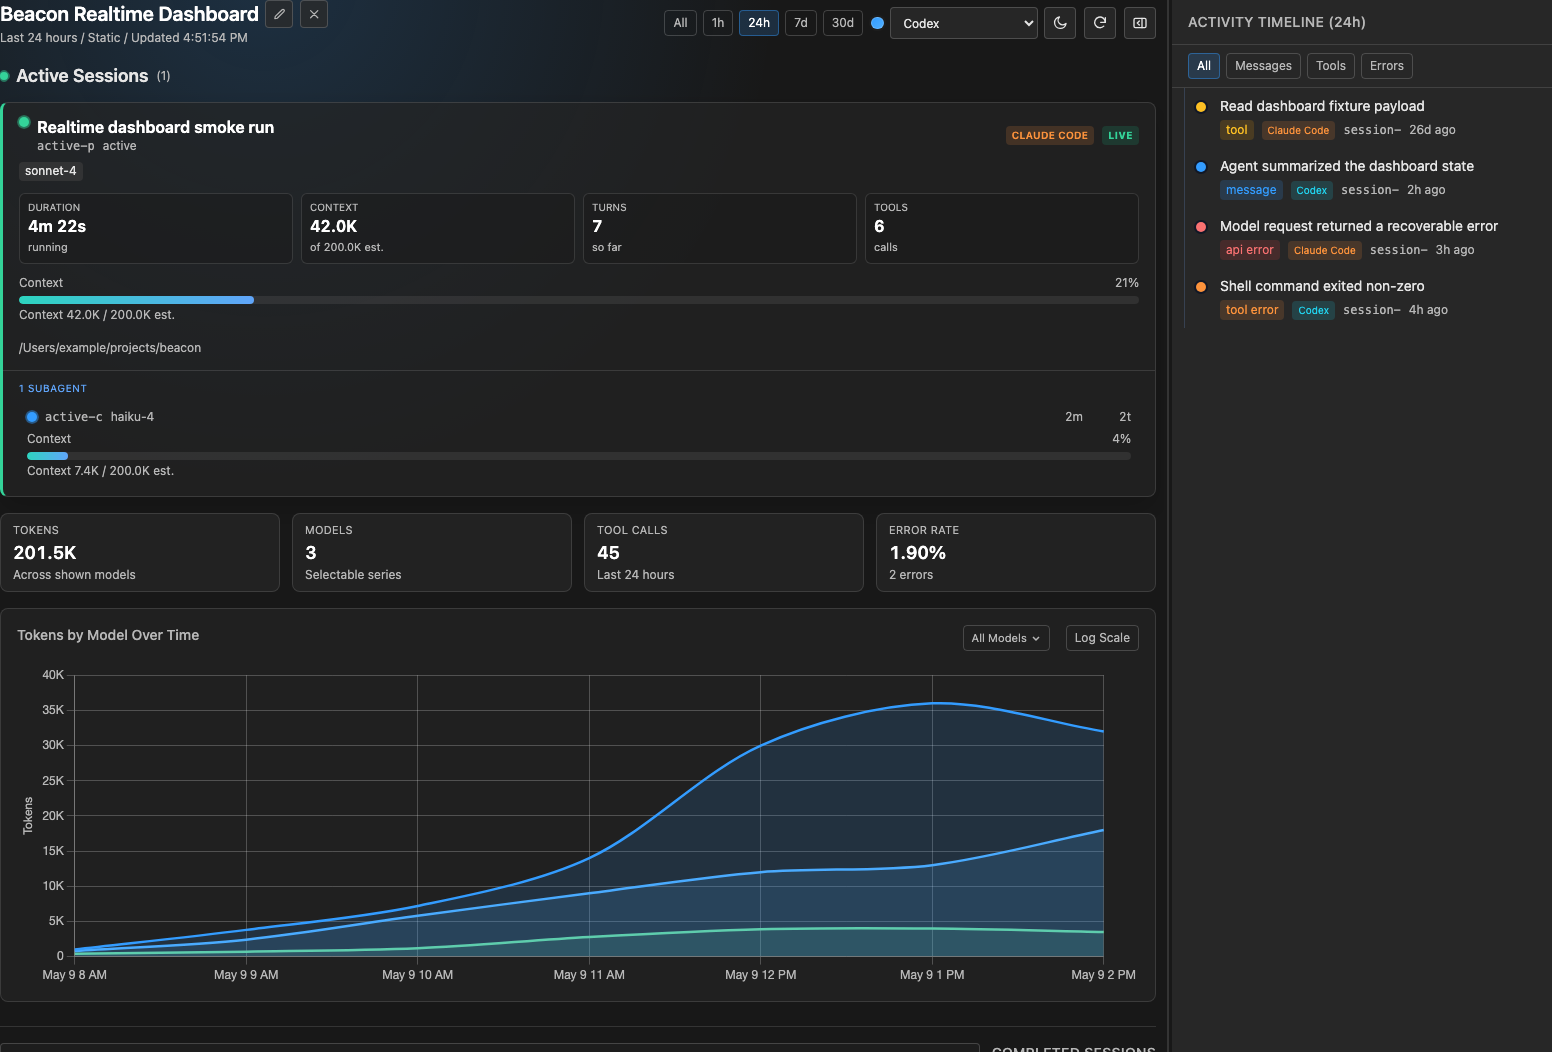
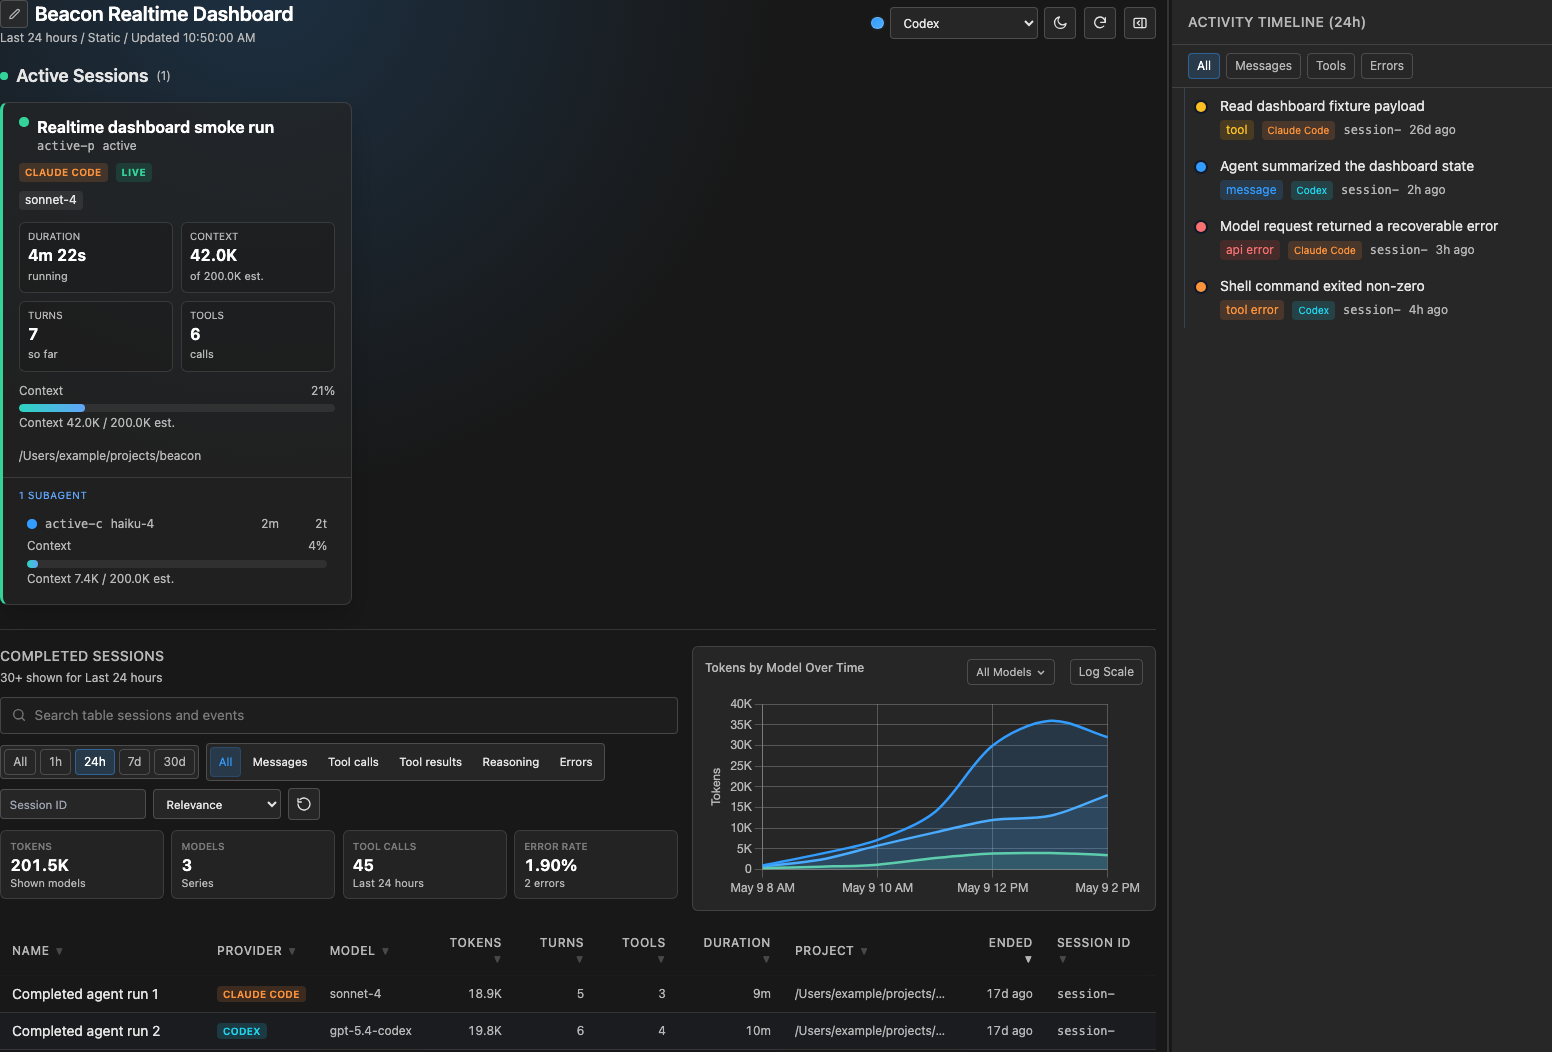
Refresh dashboard QA docs and screenshot (#165)

diff --git a/docs/dashboard-battle-test-findings.md b/docs/dashboard-battle-test-findings.md
@@ -1,39 +1,53 @@
 # Dashboard Battle Test Findings
 
-Final dashboard epic run: 2026-05-26, deterministic local fixtures plus CI.
+Final dashboard density and release sweep: 2026-05-27, deterministic local
+fixtures plus CI.
 
 ## Environment
 
-- Branch: final dashboard stability, UX, naming, transcript-return, and visual QA work for epic #131.
-- Browser matrix: Playwright Chromium desktop, narrow desktop, mobile-sized viewports, accessibility scans, and Darwin visual snapshots.
+- Branches: dashboard density, table-search scope, and release-sweep work for
+  issues #160, #161, and #162.
+- Browser matrix: Playwright Chromium desktop, narrow desktop, mobile-sized
+  viewports, accessibility scans, and Darwin visual snapshots.
 - Data source: deterministic Playwright route fixtures in `tests/e2e/fixtures/dashboard.ts`, with active, many-active, empty, error-heavy, delayed search, stale search, failed API, and transcript scenarios.
 - Prior isolated install run from 2026-05-11 remains the real-capture regression reference for JSONL ingestion, ClickHouse projections, transcript SSE refresh, and nonblank token charts.
 
 ## QA Matrix
 
 - Scroll stability: search typing, delayed responses, stale unabortable responses, Escape clear, input clear, filter changes, range changes, sort, pagination, SSE updates, timeline toggle, and active-session height changes.
-- Search table: query, filters, reset, no custom clear button, show-more pagination, unavailable/error states, narrow-screen containment, and no row/header overlap.
+- Search table: table-scoped query copy, filters, reset, no custom clear
+  button, show-more pagination, unavailable/error states, narrow-screen
+  containment, and no row/header overlap.
 - Active sessions: default, no-active, many-active, high/over/unknown context states, accessible progress bars, active section prominence, and context-bar visual baseline.
 - Analytics: single tokens-by-model time chart, range reloads, model dropdown, log toggle, tooltip anchoring, theme retinting, and nonblank chart geometry.
 - Timeline: activity filters, collapse/expand, persisted collapse before paint, resize drag, keyboard resize, inert/aria states, and transcript event deep links.
 - Dashboard identity: editable dashboard name, tab title persistence, configured fallback, local clear behavior, and unsafe text escaping.
 - Transcript return: inspector, search result, and activity transcript paths restore dashboard URL state, including sort/page state; direct transcript loads fall back to `/`; unsafe saved state is rejected.
-- Responsive and visual QA: desktop `1440x900`, narrow desktop, `390x844`, `320x568`, light theme, fixed-dark theme, dashboard mobile, transcript mobile, and themed transcript snapshots.
+- Responsive and visual QA: dashboard geometry at widths `1600`, `1440`,
+  `1280`, `1100`, `1024`, `390`, and `320`; desktop `1440x900`; mobile
+  `390x844` and `320x568`; light theme; fixed-dark theme; dashboard mobile;
+  transcript mobile; and themed transcript snapshots.
 
 ## Added In Final Pass
 
-- Added an input clear-path test to verify clearing the `type="search"` field does not move `window.scrollY`, `#main-content.scrollTop`, or `#dashboard-main.scrollTop`.
-- Extended transcript-return coverage so sort direction is preserved alongside range, pagination, and scroll state.
-- Added a direct transcript fallback assertion before the unsafe saved-state check, so the breadcrumb stays `/` when no dashboard return state exists.
-- Updated this findings document to describe the final battle-test matrix and validation commands used for the dashboard epic.
+- Moved dashboard totals into the completed-table control surface and added
+  geometry assertions for summary containment, filter wrapping, title/search
+  order, and chart placement across the requested widths.
+- Refreshed affected Darwin visual baselines for the table search, chart
+  controls, and mobile dashboard states after reviewing the rendered PNGs.
+- Clarified the completed-table search UI to avoid implying
+  `/api/dashboard/search` is completed-only; the completed-session endpoint
+  still keeps its own loading/status text.
+- Refreshed the README dashboard screenshot and overview wording so the public
+  docs show the current table-control layout.
 
 ## Commands
 
 ```bash
 npm run lint:js
 npm run test:unit
-npx playwright test tests/e2e/dashboard.spec.ts -g "initializes dashboard"
-npx playwright test tests/e2e/dashboard-search.spec.ts -g "input clear path"
+npx playwright test tests/e2e/dashboard.spec.ts -g "loads cleanly and keeps chart geometry across supported viewports"
+npx playwright test tests/e2e/dashboard-search.spec.ts -g "keeps desktop scroll fixed while typing search with delayed responses"
 make test
 make generate-check
 npm run test:e2e
@@ -46,6 +60,8 @@ git diff --check
 
 - The dashboard search area stays anchored during typing, clearing, delayed searches, stale responses, filters, range changes, sorting, pagination, and live updates.
 - Active sessions are the first dashboard content when present, with prominent stats and accessible context progress indicators.
-- The chart surface is reduced to one tokens-by-model time chart with stable controls and visual baselines.
+- The completed-table surface now owns the scoped search/filter controls,
+  compact totals, and the single tokens-by-model time chart with stable
+  controls and visual baselines.
 - Dashboard names update the visible heading and browser tab safely, persist locally, and fall back cleanly.
 - Transcript breadcrumbs restore dashboard range, search, activity, sort, pagination, and scroll state for dashboard-originated navigation while preserving safe fallback behavior for direct transcript loads.

diff --git a/README.md b/README.md
@@ -6,10 +6,10 @@ Beacon is a local dashboard for long-running AI coding agents. It watches the se
 
 ## What It Looks Like
 
-**Dashboard overview.** Token volume by model, active sessions, completed runs, integrated search, and a live activity timeline in one view.
+**Dashboard overview.** Active sessions, completed runs, table-scoped search and filters, token volume by model, and a live activity timeline in one view.
 
 <p>
-  <img src="assets/beacon-screenshot.png" alt="Beacon dashboard showing token volume by model, active sessions, activity timeline, and completed sessions" />
+  <img src="assets/beacon-screenshot.png" alt="Beacon dashboard showing active sessions, completed-session table controls, token volume by model, and activity timeline" />
 </p>
 
 **Session transcript.** A single run with session metrics, token charts, tool usage, and the replayable conversation below.
